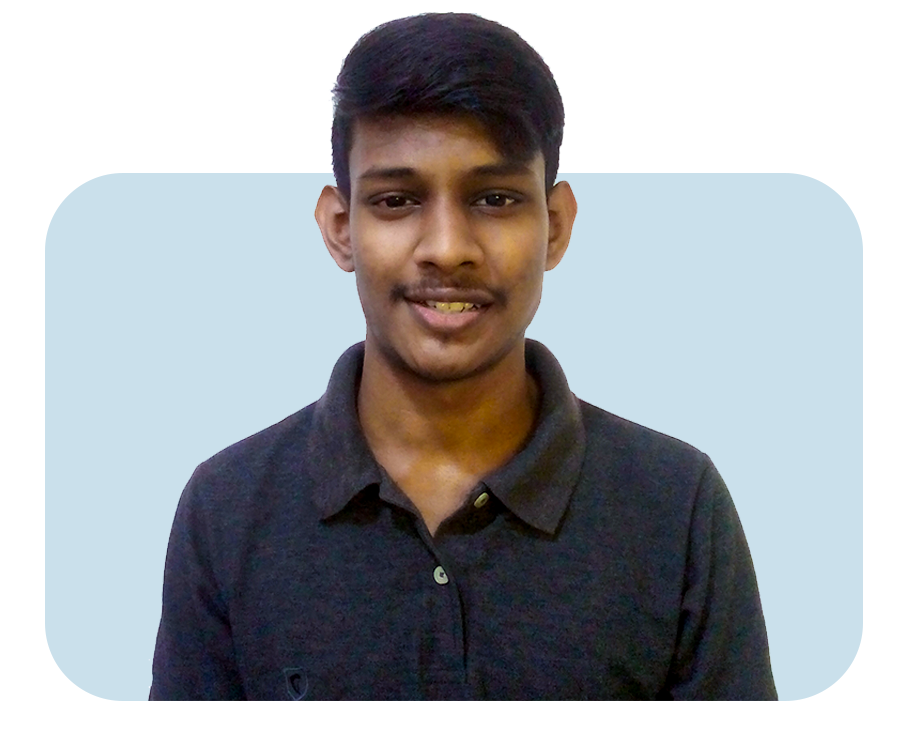
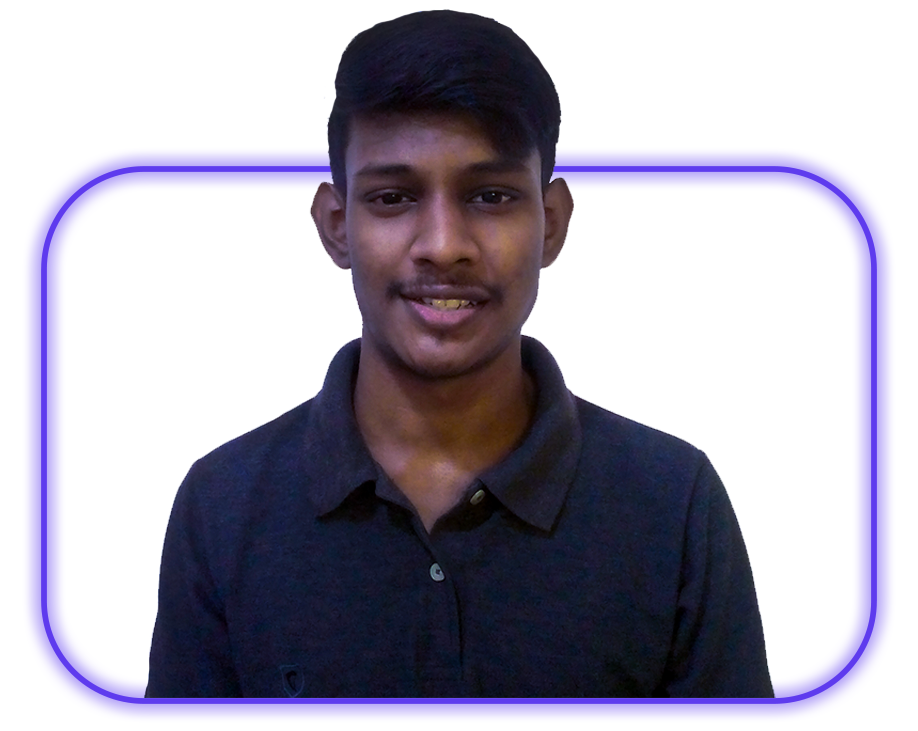
update theam

diff --git a/src/App.css b/src/App.css
@@ -6,6 +6,7 @@ body {
     font-family: 'Poppins', sans-serif;
     font-style: normal;
     scroll-behavior: smooth;
+    background-color: #000000;
 }
 
 h1,
@@ -21,14 +22,26 @@ hr {
   color: #000000;
   width: 100%;
 }
+img {
+  border-radius: 12px;
+}
 
-:root {
+/* :root {
     --primary: #5e3bee;
     --heading-color: #282938;
     --bg-shade: #f5fcff;
     --darkblue: #1c1e53;
     --black: #000000;
     --white: #ffffff;
+} */
+
+:root {
+  --primary: #5e3bee;
+  --heading-color: #CCC9DC;
+  --bg-shade: #0C1821;
+  --lavender: #CCC9DC;
+  --black: #000000;
+  --white: #ffffff;
 }
 
 .btn {
@@ -47,40 +60,36 @@ hr {
 }
 
 .btn-outline-primary {
-    color: var(--primary);
-    background-color: var(--white);
+    color: var(--lavender);
+    background-color: var(--black);
     border: 1px solid var(--primary);
 }
 
 .btn-outline-primary:hover {
     color: var(--white);
     background-color: var(--primary);
+    border: 1px solid var(--primary);
 }
-.btn-primary:focus {
-  outline: none; /* Remove default focus outline */
-  box-shadow: 0 0 0 2px /* your focus color, e.g., rgba(0, 0, 255, 0.5) */;
-  /* Add any other styles for the focused state */
-}
+
 .btn-primary {
     color: var(--white);
     background-color: var(--primary);
     border: 1px solid var(--primary);
 }
 
-.btn-primary.active {
-  color: var(--primary);
-  background-color: var(--white);
+.btn-primary:focus {
+  outline: none;
+  box-shadow: 0 0 0 2px;
 }
 
-.btn-primary {
-  color: var(--white);
-  background-color: var(--primary);
-  border: 1px solid var(--primary);
+.btn-primary.active {
+  color: var(--primary);
+  background-color: var(--black);
 }
 
 .btn-primary:hover {
   color: var(--primary);
-  background-color: var(--white);
+  background-color: var(--black);
 }
 /* Globle CSS Ends */
 /* Main Heading */
@@ -109,7 +118,7 @@ h3 {
 /* Paragraphs test large medium small */
 /* Body 1 */
 .text-lg {
-    color: var(--darkblue);
+    color: var(--lavender);
     font-size: 18px;
     font-style: normal;
     font-weight: 400;
@@ -118,7 +127,7 @@ h3 {
 
 /* Body 2 */
 .text-md {
-    color: var(--darkblue);
+    color: var(--lavender);
     font-size: 16px;
     font-style: normal;
     font-weight: 400;
@@ -127,7 +136,7 @@ h3 {
 
 /* Body 3 */
 .text-sm {
-    color: var(--black);
+    color: var(--lavender);
     font-size: 14px;
     font-style: normal;
     font-weight: 400;
@@ -162,7 +171,7 @@ h3 {
     justify-content: space-between;
     align-items: center;
     padding: 1rem 85.333px;
-    background: var(--white);
+    background: var(--black);
     box-shadow: 0px 5.333px 80px 0 rgba(0, 0, 0, 0.1);
     position: fixed;
     top: 0;
@@ -184,7 +193,7 @@ h3 {
 
 /* Navbar Content */
 .navbar--content {
-    color: var(--darkblue);
+    color: var(--lavender);
     font-size: 16px;
     font-style: normal;
     font-weight: 400;
@@ -204,7 +213,7 @@ h3 {
     align-items: center;
     justify-content: space-between;
     gap: 32px;
-    background-color: var(--bg-shade);
+    background-color: var(--black);
 }
 
 .hero--section--content--box {
@@ -242,7 +251,7 @@ h3 {
 }
 
 .hero--section--description {
-    color: var(--darkblue);
+    color: var(--lavender);
     font-size: 24px;
     font-weight: 400;
     line-height: 36px;
@@ -301,7 +310,7 @@ h3 {
 }
 
 .skills--section--card .skills--section--description {
-    color: var(--darkblue);
+    color: var(--lavender);
 }
 
 .skills--section--img {
@@ -311,7 +320,7 @@ h3 {
     align-items: center;
     gap: 13.3px;
     border-radius: 10.6px;
-    background: var(--white);
+    background: var(--lavender);
     box-shadow: 0 0 16px 0 rgba(0, 0, 0, 0.1);
 }
 
@@ -328,12 +337,13 @@ h3 {
     align-items: center;
     gap: 13.3px;
     border-radius: 10.6px;
-    background: var(--white);
+    background: var(--lavender);
     box-shadow: 0 0 16px 0 rgba(0, 0, 0, 0.1);
 }
 
 .skills--section--tag:hover {
-  background: var(--bg-shade);
+  background: var(--primary);
+  color: var(--lavender);
 }
 
 .skills--section--card--content {
@@ -352,7 +362,7 @@ h3 {
 }
 
 .skills--section--description {
-    color: var(--black);
+    color: var(--white);
     font-size: 21.3px;
     font-style: normal;
     font-weight: 400;
@@ -430,7 +440,7 @@ h3 {
     align-items: flex-start;
     gap: 0px;
     flex: 1 0 0;
-    background-color: var(--white);
+    background-color: var(--bg-shade);
     box-shadow: 0 0 32px 0 rgba(0, 0, 0, 0.15);
     cursor: pointer;
     border-radius: 12px;
@@ -469,7 +479,7 @@ h3 {
 
 .portfolio--preview:hover {
   color: var(--primary);
-  background-color: var(--white);
+  background-color: var(--bg-shade);
 }
 
 .portfolio--link {
@@ -578,8 +588,9 @@ h3 {
     align-items: center;
     align-self: stretch;
     border-radius: 8px;
+    color: var(--lavender);
     border: 1.333px solid var(--primary);
-    background: var(--white);
+    background: var(--black);
 }
 
 select {
@@ -639,6 +650,7 @@ input[type="checkbox"] {
     text-decoration: none;
 }
 .footer--items ul > li > a {
+    cursor: pointer;
     text-decoration: none;
 }
 .footer--social--icon > ul {
@@ -663,7 +675,7 @@ input[type="checkbox"] {
     align-self: stretch;
 }
 .footer--content {
-    color: var(--black);
+    color: var(--lavender);
     font-size: 18.667px;
     font-weight: 400;
     line-height: 28px;
@@ -860,7 +872,7 @@ input[type="checkbox"] {
     display: block;
     height: 0.188rem;
     width: 100%;
-    background-color: #000000;
+    background-color: #ffffff;
     border-radius: 0.625rem;
     transition: all ease-in-out 0.2s;
   }
@@ -878,7 +890,7 @@ input[type="checkbox"] {
       display: flex;
       align-items: center;
       justify-content: center;
-      background-color: rgba(255, 255, 255);
+      background-color: rgb(0, 0, 0);
       top: -40rem;
       left: 0;
       width: 100%;
@@ -949,7 +961,7 @@ input[type="checkbox"] {
     .portfolio--section--card {
       gap: 2px;
       flex: 1 0 0;
-      background-color: var(--white);
+      background-color: var(--bg-shade);
       box-shadow: 0 0 32px 0 rgba(0, 0, 0, 0.15);
       cursor: pointer;
       border-radius: 12px;

diff --git a/src/Pages/Home/Footer.jsx b/src/Pages/Home/Footer.jsx
@@ -7,7 +7,6 @@ function Footer() {
       <div className="footer--link--container">
         <div>
           <p className="footer--content">Made by Lawo</p>
-          {/*<img src="./img/logo.svg" alt="Logoipsum" />*/}
         </div>
         <div className="footer--items">
           <ul>
@@ -110,7 +109,7 @@ function Footer() {
                 >
                   <path
                     d="M22.6667 8.65479H18.6667C17.9303 8.65479 17.3333 9.25175 17.3333 9.98812V13.9881H22.6667C22.8183 13.9848 22.9621 14.0553 23.0523 14.1773C23.1424 14.2993 23.1677 14.4575 23.12 14.6015L22.1333 17.5348C22.0424 17.804 21.7908 17.986 21.5067 17.9881H17.3333V27.9881C17.3333 28.3563 17.0348 28.6548 16.6667 28.6548H13.3333C12.9651 28.6548 12.6667 28.3563 12.6667 27.9881V17.9881H10.6667C10.2985 17.9881 10 17.6896 10 17.3215V14.6548C10 14.2867 10.2985 13.9881 10.6667 13.9881H12.6667V9.98812C12.6667 7.0426 15.0545 4.65479 18 4.65479H22.6667C23.0348 4.65479 23.3333 4.95327 23.3333 5.32145V7.98812C23.3333 8.35631 23.0348 8.65479 22.6667 8.65479Z"
-                    fill="black"
+                    fill="lavender"
                   />
                 </svg>
               </a>
@@ -133,7 +132,7 @@ function Footer() {
                     fill-rule="evenodd"
                     clip-rule="evenodd"
                     d="M22.0001 4.65479H11.3334C7.65152 4.65479 4.66675 7.63956 4.66675 11.3215V21.9881C4.66675 25.67 7.65152 28.6548 11.3334 28.6548H22.0001C25.6819 28.6548 28.6667 25.67 28.6667 21.9881V11.3215C28.6667 7.63956 25.6819 4.65479 22.0001 4.65479ZM26.3334 21.9881C26.3261 24.3783 24.3902 26.3141 22.0001 26.3215H11.3334C8.94321 26.3141 7.0074 24.3783 7.00008 21.9881V11.3215C7.0074 8.93125 8.94321 6.99544 11.3334 6.98812H22.0001C24.3902 6.99544 26.3261 8.93125 26.3334 11.3215V21.9881ZM23.0001 11.6548C23.7365 11.6548 24.3334 11.0578 24.3334 10.3215C24.3334 9.58508 23.7365 8.98812 23.0001 8.98812C22.2637 8.98812 21.6667 9.58508 21.6667 10.3215C21.6667 11.0578 22.2637 11.6548 23.0001 11.6548ZM16.6667 10.6548C13.353 10.6548 10.6667 13.3411 10.6667 16.6548C10.6667 19.9685 13.353 22.6548 16.6667 22.6548C19.9805 22.6548 22.6667 19.9685 22.6667 16.6548C22.6703 15.0624 22.0393 13.5342 20.9133 12.4082C19.7873 11.2822 18.2591 10.6512 16.6667 10.6548ZM13.0001 16.6548C13.0001 18.6799 14.6417 20.3215 16.6667 20.3215C18.6918 20.3215 20.3334 18.6799 20.3334 16.6548C20.3334 14.6297 18.6918 12.9881 16.6667 12.9881C14.6417 12.9881 13.0001 14.6297 13.0001 16.6548Z"
-                    fill="black"
+                    fill="lavender"
                   />
                 </svg>
               </a>
@@ -154,7 +153,7 @@ function Footer() {
                 >
                   <path
                     d="M28.6304 9.61132C28.0112 10.4373 27.2627 11.1579 26.4137 11.7451C26.4137 11.9609 26.4137 12.1767 26.4137 12.4045C26.4205 16.3229 24.8553 20.0803 22.0691 22.8341C19.2827 25.588 15.5083 27.108 11.5921 27.0533C9.32799 27.0609 7.0929 26.544 5.0619 25.5429C4.95238 25.4951 4.88175 25.3868 4.88216 25.2672V25.1353C4.88216 24.9632 5.02164 24.8237 5.1937 24.8237C7.41923 24.7503 9.56536 23.9787 11.3285 22.618C9.31404 22.5773 7.50159 21.384 6.66747 19.5491C6.62535 19.4489 6.63846 19.3339 6.7021 19.2457C6.76572 19.1576 6.87067 19.1091 6.979 19.1176C7.59123 19.1791 8.20958 19.1221 8.80027 18.9497C6.57652 18.4881 4.90562 16.642 4.66648 14.3824C4.65799 14.274 4.70656 14.1691 4.79467 14.1053C4.88276 14.0417 4.99766 14.0285 5.09784 14.0708C5.69459 14.3341 6.33879 14.4728 6.99099 14.4783C5.04246 13.1994 4.20082 10.7669 4.94207 8.55641C5.01859 8.34163 5.20242 8.18295 5.426 8.13871C5.64958 8.09445 5.87995 8.17116 6.03243 8.34064C8.66186 11.1391 12.2747 12.8067 16.1092 12.9918C16.0111 12.5999 15.9628 12.1971 15.9655 11.7931C16.0013 9.67441 17.3123 7.78707 19.2845 7.01461C21.2567 6.24217 23.4999 6.73749 24.964 8.26871C25.9619 8.07859 26.9267 7.74339 27.8276 7.27373C27.8936 7.23253 27.9773 7.23253 28.0433 7.27373C28.0845 7.33976 28.0845 7.42348 28.0433 7.48951C27.6069 8.48881 26.8697 9.32695 25.9345 9.88704C26.7535 9.79207 27.558 9.59888 28.3309 9.31164C28.396 9.26735 28.4815 9.26735 28.5465 9.31164C28.6011 9.33657 28.6419 9.38427 28.658 9.44201C28.6741 9.49976 28.664 9.56169 28.6304 9.61132Z"
-                    fill="black"
+                    fill="lavender"
                   />
                 </svg>
               </a>
@@ -177,7 +176,7 @@ function Footer() {
                     fill-rule="evenodd"
                     clip-rule="evenodd"
                     d="M7.33341 4.65479H26.0001C27.4729 4.65479 28.6667 5.84869 28.6667 7.32145V25.9881C28.6667 27.4609 27.4729 28.6548 26.0001 28.6548H7.33341C5.86065 28.6548 4.66675 27.4609 4.66675 25.9881V7.32145C4.66675 5.84869 5.86065 4.65479 7.33341 4.65479ZM11.3334 24.6548C11.7016 24.6548 12.0001 24.3563 12.0001 23.9881V14.6548C12.0001 14.2867 11.7016 13.9881 11.3334 13.9881H9.33342C8.96523 13.9881 8.66675 14.2867 8.66675 14.6548V23.9881C8.66675 24.3563 8.96523 24.6548 9.33342 24.6548H11.3334ZM10.3334 12.6548C9.22884 12.6548 8.33341 11.7594 8.33341 10.6548C8.33341 9.55021 9.22884 8.65479 10.3334 8.65479C11.438 8.65479 12.3334 9.55021 12.3334 10.6548C12.3334 11.7594 11.438 12.6548 10.3334 12.6548ZM24.0001 24.6548C24.3682 24.6548 24.6667 24.3563 24.6667 23.9881V17.8548C24.7101 15.7359 23.1435 13.9275 21.0401 13.6681C19.5694 13.5338 18.1445 14.2207 17.3334 15.4548V14.6548C17.3334 14.2867 17.0349 13.9881 16.6667 13.9881H14.6667C14.2986 13.9881 14.0001 14.2867 14.0001 14.6548V23.9881C14.0001 24.3563 14.2986 24.6548 14.6667 24.6548H16.6667C17.0349 24.6548 17.3334 24.3563 17.3334 23.9881V18.9881C17.3334 17.8836 18.2289 16.9881 19.3334 16.9881C20.4379 16.9881 21.3334 17.8836 21.3334 18.9881V23.9881C21.3334 24.3563 21.6319 24.6548 22.0001 24.6548H24.0001Z"
-                    fill="black"
+                    fill="lavender"
                   />
                 </svg>
               </a>

diff --git a/src/Pages/Home/ContactMe.jsx b/src/Pages/Home/ContactMe.jsx
@@ -6,7 +6,7 @@ export default function ContactMe() {
             <hr />
             <div>
                 <p className="sub--title">Get In Touch</p>
-                <h2>Contact Me</h2>
+                <h2 className="skills--section--heading">Contact Me</h2>
             </div>
             <form
                 action="https://formspree.io/f/xleyykpa"
